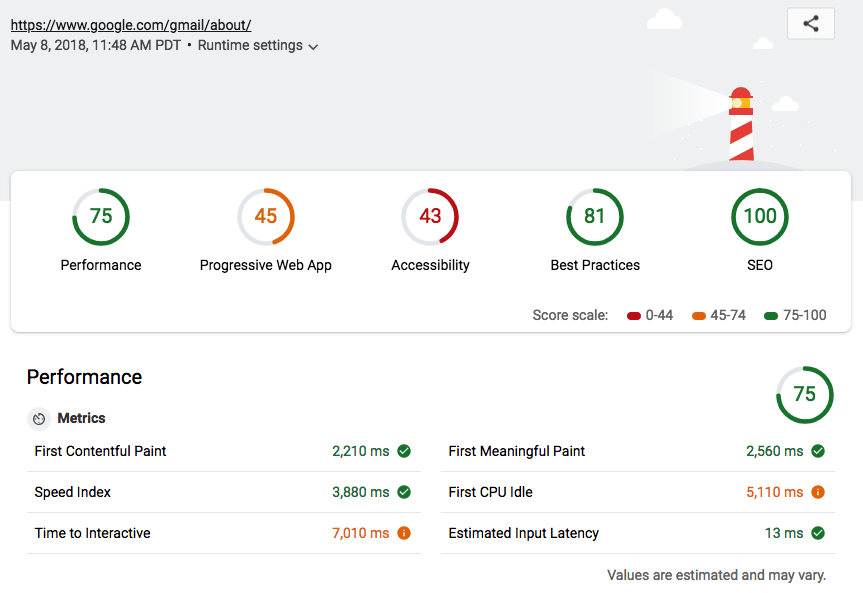
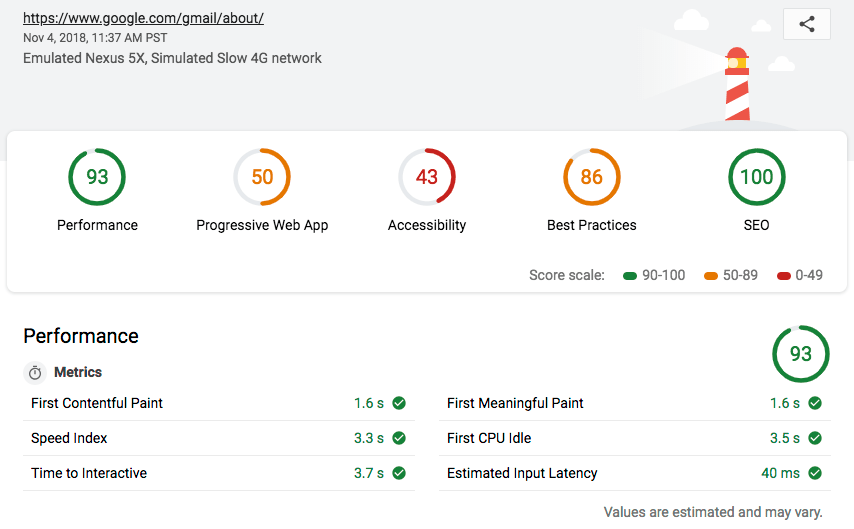
Lighthouse scoring doc updates (#6806)

diff --git a/src/content/en/tools/lighthouse/v3/scoring.md b/src/content/en/tools/lighthouse/v3/scoring.md
@@ -1,15 +1,15 @@
 project_path: /web/tools/_project.yaml
 book_path: /web/tools/_book.yaml
-description: How scoring works in Lighthouse v3.
+description: How scoring works in Lighthouse
 
-{# wf_updated_on: 2018-06-15 #}
+{# wf_updated_on: 2018-11-04 #}
 {# wf_published_on: 2018-05-04 #}
 {# wf_blink_components: N/A #}
 
 [details]: https://docs.google.com/spreadsheets/d/1Cxzhy5ecqJCucdf1M0iOzM8mIxNc7mmx107o5nj38Eo/edit#gid=0
 [WikiHow]: https://www.wikihow.com/Calculate-Weighted-Average#Weighted_Averages_without_Percentages_sub
 
-# Lighthouse v3 Scoring Guide {: .page-title }
+# Lighthouse Scoring Guide {: .page-title }
 
 The scores that you see at the top of your Lighthouse report represent the page's score for
 that particular category. This guide explains how Lighthouse calculates those scores.
@@ -37,7 +37,7 @@ percentile.
 
 ### Which Performance audits contribute to your score {: #perf-audits }
 
-In general, only the audits in the Metrics section of the Performance category contribute
+In general, only the items in the Metrics section of the Performance category contribute
 to your score. See [Scoring Details][details]{:.external} for the complete list.
 The audits under Diagnostics and Opportunities do not contribute to your Performance score.
 
@@ -47,24 +47,22 @@ The audits under Diagnostics and Opportunities do not contribute to your Perform
 [PSI]: /web/tools/lighthouse/audits/perceptual-speed-index
 [EIL]: /web/tools/lighthouse/audits/estimated-input-latency
 
-### How each Performance audit is scored {: #perf-scoring }
+### How each Performance metric is scored {: #perf-scoring }
 
 Each Performance audit that contributes to your score has its own scoring methodology.
 Lighthouse maps each raw score to a number between 0 and 100. The scoring distribution is
 a log normal distribution derived from the performance metrics of real website performance
-data on HTTPArchive. A score of 100 typically maps to the 98th percentile for that audit. 
-A score of 50 maps to the 75th percentile. In other words, if you get a score of 100, it 
-means that your page performs better in that audit than 98% of pages on the web.
+data on HTTPArchive.
 
 For example, the First Meaningful Paint (FMP) audit measures when a user perceives that the
 primary content of a page is visible. The raw score for FMP represents the time duration between
 the user initiating the page load and the page rendering its primary content. Based on real
-website data, top-performing sites render FMP in about 1223ms, so that raw score is mapped to
+website data, top-performing sites render FMP in about 1,220ms, so that metric value is mapped to
 a Lighthouse score of 99.
 
 ### How the Performance score is weighted {: #perf-weighting }
 
-The audits that contribute to the Performance score are not equally weighted. See [Scoring
+The metrics that contribute to the Performance score are not equally weighted. See [Scoring
 Details][details]{:.external} to see how each Performance audit is weighted. The heaver-weighted
 audits have a larger impact on your overall Performance score. The weightings are based on
 heuristics. The Lighthouse team is working on formalizing this approach through more field data.
@@ -80,9 +78,11 @@ in each audit affects your overall Performance score.
 
 The color-coding maps to these Performance score ranges:
 
-* 0 to 44 (poor): Red
-* 45 to 74 (average): Orange
-* 75 to 100 (good): Green
+* 0 to 49 (slow): Red
+* 50 to 89 (average): Orange
+* 90 to 100 (fast): Green
+
+These color buckets were revised in Lighthouse [v3.1.1](https://github.com/GoogleChrome/lighthouse/releases).
 
 ### How to reduce fluctuations in your Performance score {: #perf-consistency }
 
@@ -126,3 +126,7 @@ Lighthouse returns a Best Practices score between 0 and 100. 0 is the worst poss
 The Best Practices audits are equally weighted. To calculate how much each audit contributes
 to your overall Best Practices score, count the number of Best Practices audits, then divide
 100 by that number.
+
+## Feedback {: #feedback .hide-from-toc }
+
+{% include "web/_shared/helpful.html" %}

diff --git a/src/content/en/tools/lighthouse/scoring.md b/src/content/en/tools/lighthouse/scoring.md
@@ -2,7 +2,7 @@ project_path: /web/tools/_project.yaml
 book_path: /web/tools/_book.yaml
 description: A guide on how scoring works in Lighthouse v2.
 
-{# wf_updated_on: 2018-05-08 #}
+{# wf_updated_on: 2018-11-04 #}
 {# wf_published_on: 2017-12-27 #}
 {# wf_blink_components: N/A #}
 
@@ -11,8 +11,8 @@ description: A guide on how scoring works in Lighthouse v2.
 
 # Lighthouse v2 Scoring Guide {: .page-title }
 
-Note: This guide covers how scoring works in Lighthouse v2. See [Lighthouse v3 Scoring Guide][v3]
-if you're using v3.
+Note: This guide covers how scoring worked in Lighthouse v2. See [Lighthouse Scoring Guide][v3]
+for the latest.
 
 [v3]: /web/tools/lighthouse/v3/scoring
 
@@ -128,3 +128,7 @@ Lighthouse returns a Best Practices score between 0 and 100. 0 is the worst poss
 The Best Practices audits are equally weighted. To calculate how much each audit contributes
 to your overall Best Practices score, count the number of Best Practices audits, then divide
 100 by that number.
+
+## Feedback {: #feedback .hide-from-toc }
+
+{% include "web/_shared/helpful.html" %}
